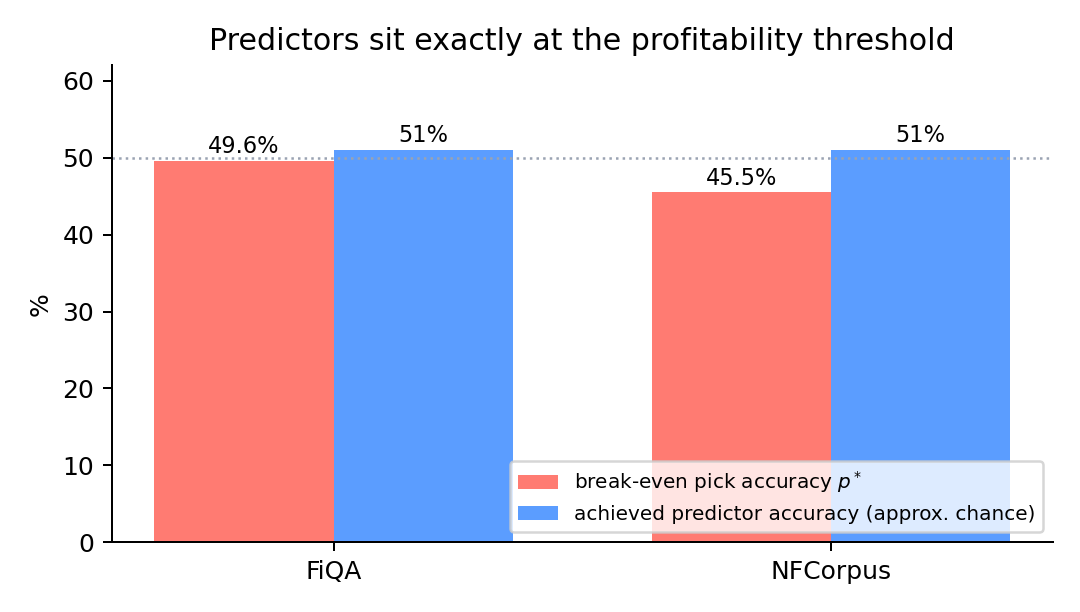
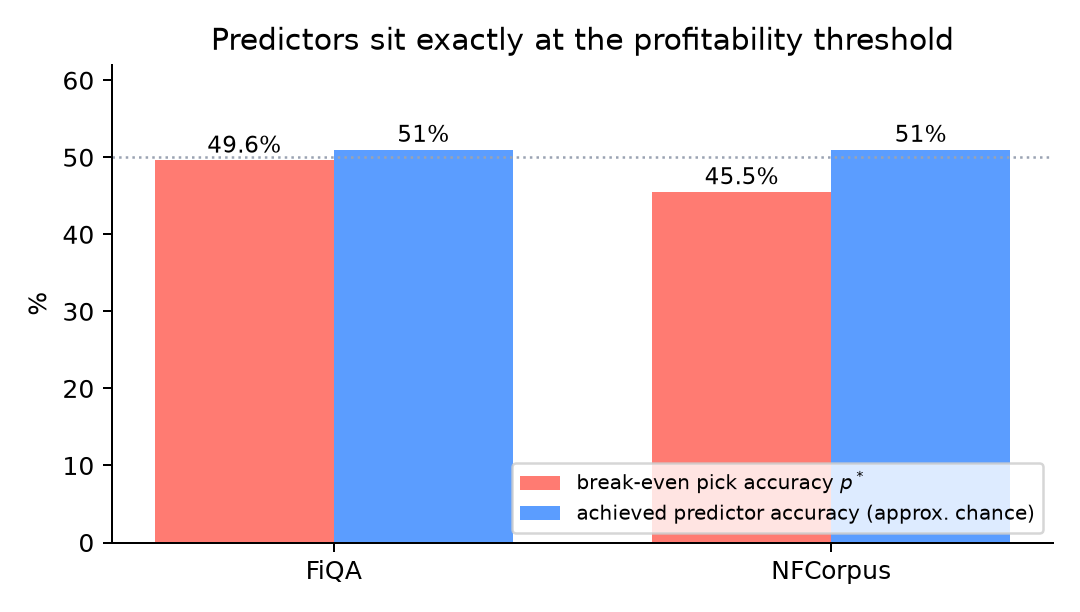
Reviewer pass: protocol labels on all tables/captions; per-query valley figure with IQR bands (both domains)

diff --git a/papers/property-routing/paper.tex b/papers/property-routing/paper.tex
@@ -17,7 +17,7 @@
 \maketitle
 
 \begin{abstract}
-Per-query retrieval routing --- choosing BM25, dense retrieval, or fusion \emph{per query} --- is motivated by oracle analyses showing large headroom: a cheat that always picks the best strategy per query outperforms the best fixed strategy by 14--17\% nDCG on BEIR datasets. We set out to harvest that headroom and failed seven times, each failure in a different way. Across gradient-boosted routers on lexical and embedding features, cross-domain transfer, two generations of pseudo-labeled training data (document sentences and LLM-generated questions), soft routing by per-query fusion-weight regression, and zero-shot LLM routing, \textbf{no router beats a single tuned fusion weight} --- and the best-intentioned variants are \emph{worse} than doing nothing. We diagnose why, mechanism by mechanism: an alphabetical tie-breaking artifact that collapses classifiers; regression that predicts strategy \emph{levels} but never per-query \emph{deviations}; pseudo-queries that are lexical copies of their source documents; a non-convex quality surface in fusion weight that traps weight-regression; and LLM routers that either hedge to the safe answer (fusion) or commit to priors that are anti-predictive on BEIR. A break-even analysis closes the loop: the oracle's wins are abundant (half of all queries) but carry no query-side fingerprint beyond chance, so \emph{any} router built on reading the query operates exactly at its profitability threshold. We validate the stakes at the answer level: retrieval strategy choice propagates to grounded-answer quality, confirmed by a blind 90-judgment human evaluation. The practical recommendation is unfashionable and robust: sweep the weight, ship the constant. The artifact is a complete, deployed RAG platform with which every claim in this paper can be reproduced from a YAML config.
+Per-query retrieval routing --- choosing BM25, dense retrieval, or fusion \emph{per query} --- is motivated by oracle analyses showing large headroom: a cheat that always picks the best strategy per query outperforms the best fixed strategy by 14--17\% relative nDCG on BEIR datasets (honest train/test protocol; 12--13\% under the all-splits convention). We set out to harvest that headroom and failed seven times, each failure in a different way. Across gradient-boosted routers on lexical and embedding features, cross-domain transfer, two generations of pseudo-labeled training data (document sentences and LLM-generated questions), soft routing by per-query fusion-weight regression, and zero-shot LLM routing, \textbf{no router beats a single tuned fusion weight} --- and the best-intentioned variants are \emph{worse} than doing nothing. We diagnose why, mechanism by mechanism: an alphabetical tie-breaking artifact that collapses classifiers; regression that predicts strategy \emph{levels} but never per-query \emph{deviations}; pseudo-queries that are lexical copies of their source documents; a non-convex quality surface in fusion weight that traps weight-regression; and LLM routers that either hedge to the safe answer (fusion) or commit to priors that are anti-predictive on BEIR. A break-even analysis closes the loop: the oracle's wins are abundant (half of all queries) but carry no query-side fingerprint beyond chance, so \emph{any} router built on reading the query operates exactly at its profitability threshold. We validate the stakes at the answer level: retrieval strategy choice propagates to grounded-answer quality, confirmed by a blind 90-judgment human evaluation. The practical recommendation is unfashionable and robust: sweep the weight, ship the constant. The artifact is a complete, deployed RAG platform with which every claim in this paper can be reproduced from a YAML config.
 \end{abstract}
 
 \section{Introduction}
@@ -33,7 +33,7 @@ Our findings in one sentence: \textbf{the oracle gap is real, abundant, and unre
 
 \subsection{Claims}
 \begin{enumerate}
-\item On FiQA and NFCorpus, the per-query oracle beats the best fixed strategy by +14--17\% relative nDCG (Section~3); domain labels capture only +1.3\% of it (Section~4.1).
+\item On FiQA and NFCorpus, the per-query oracle beats the best fixed strategy by +14--17\% relative nDCG (Section~3, test-split protocol; +12--13\% all-splits); domain labels capture only +1.3\% of it (Section~4.1).
 \item Seven router families --- spanning feature, label-generation, soft-weight, and LLM paradigms --- all fail to beat a tuned uniform weight; five are worse than it (Section~4). Two failure mechanisms are, to our knowledge, undocumented: alphabetical tie-breaking bias in argmax labels under dense annotations (\S\ref{sec:v0}), and the non-convex weight-valley that collapses fusion-weight regression (\S\ref{sec:v5}).
 \item A break-even analysis explains the flat results: the oracle wins on roughly half of queries, but the required pick accuracy ($\sim$46--50\%) equals what query-feature predictors achieve by chance (Section~5).
 \item Strategy choice matters at the answer level --- grounding scores and blind human judgments both order dense $>$ hybrid $>$ bm25 identically --- so the routing question is worth asking even though current routers fail it (Section~6).
@@ -69,13 +69,13 @@ FiQA     & 0.2293 & 0.3680 & 0.3827 @ $w{=}0.7$ & \textbf{0.3827} & 0.4271 \\
 NFCorpus & 0.3013 & 0.3183 & 0.3374 @ $w{=}0.5$ & \textbf{0.3374} & 0.3818 \\
 \bottomrule
 \end{tabular}
-\caption{Baselines (all-splits nDCG@10) and oracle. Oracle gaps: +11.6\% relative (FiQA), +13.2\% (NFCorpus).}
+\caption{Baselines and oracle under the \emph{all-splits} protocol (train+dev+test merged; comparability with published BEIR numbers). Oracle gaps: +11.6\% relative (FiQA), +13.2\% (NFCorpus). All router results in this paper (Table~\ref{tab:matrix}) use the honest \emph{test-split} protocol instead (gaps +16.9\%/+14.1\%); the phenomenon holds under both.}
 \label{tab:baselines}
 \end{table}
 
 Head-to-head, no strategy dominates: BM25 beats dense on 31.3\% of NFCorpus queries but only 14.5\% of FiQA queries. The winner \emph{varies} --- the precondition for routing to matter.
 
-Under the honest test-split protocol the pattern holds: oracle 0.4338 (FiQA) and 0.3842 (NFCorpus) vs best-uniform 0.3711 and 0.3368 --- \textbf{+16.9\% and +14.1\% relative} (weighted oracle 0.4173 vs 0.3597).
+Under the honest test-split protocol the pattern holds: oracle 0.4338 (FiQA) and 0.3842 (NFCorpus) vs best-uniform 0.3711 and 0.3368 --- \textbf{+16.9\% and +14.1\% relative} (weighted oracle 0.4173 vs 0.3597). Protocol note: Table~\ref{tab:baselines} is all-splits; Table~\ref{tab:matrix} is test-split; the gap holds under both (\S2.2).
 
 One observation frames everything that follows: the \textbf{soft oracle exceeds the hard oracle}. Allowing per-query fusion weights $w \in \{0, 0.1, \dots, 1.0\}$ (RRF-fused BM25+dense rankings, weight grid-searched per query) reaches 0.4413/0.3884 --- \emph{above} per-query strategy selection (0.4338/0.3842). Fusion hedges: blending two thin, complementary rankings rescues queries no single strategy serves. The ceiling is higher than the routing literature's usual number --- and we will see it is no more reachable.
 
@@ -125,8 +125,8 @@ RCT-MARS (\S\ref{sec:related}) resolves the hard-routing paradox by going soft: 
 
 \begin{figure}[h]
 \centering
-\includegraphics[width=0.8\textwidth]{fig_valley.png}
-\caption{FiQA test nDCG@10 as a function of fusion weight (uniform sweep; router-v5 report). The curve is non-convex: quality collapses between $w{=}0.3$ and $w{=}0.4$, then jumps at $w{=}0.5$. v5-direct's predicted mean weight (0.323) lands in the shaded valley --- the mechanism of its $-25\%$ recovery.}
+\includegraphics[width=\textwidth]{fig_valley.png}
+\caption{Per-query fusion-weight sweep recomputed from committed run artifacts (test split; solid = mean nDCG@10, band = interquartile range across queries). FiQA's mean surface is non-convex --- collapse through $w{=}0.3$--$0.4$, jump at $w{=}0.5$ --- and v5-direct's predicted mean weight (0.323, dashed) lands in the shaded valley: the mechanism of its $-25\%$ recovery. NFCorpus's surface is flatter, consistent with its smaller routing losses.}
 \label{fig:valley}
 \end{figure}
 \subsection{v6 --- LLM-as-router (zero-shot)}
@@ -160,7 +160,7 @@ v6h & LLM (hedge allowed) & 0.3599 & $+0.1\%$ & $+0.0\%$ & hedge degeneracy \\
 v6f & LLM (forced choice) & 0.3386 & $-5.9\%$ & $-21\%$ & priors anti-predictive \\
 \bottomrule
 \end{tabular}
-\caption{All attempts, honest protocol, weighted test nDCG@10 (baseline uniform 0.3597, oracle 0.4173). Scores as reported per experiment; small baseline differences reflect per-run test subsets.}
+\caption{All attempts, honest train/test protocol (test split only), weighted nDCG@10 (baseline uniform 0.3597, oracle 0.4173; all-splits baselines in Table~\ref{tab:baselines}). Scores as reported per experiment; sub-0.001 baseline differences across experiments reflect per-run query subsets.}
 \label{tab:matrix}
 \end{table}
 

diff --git a/scripts/make_figures.py b/scripts/make_figures.py
@@ -3,13 +3,14 @@
 
 Outputs (papers/property-routing/figures/):
   fig_ladder.png    the routing ladder: fixed strategies, routers, oracle
-  fig_valley.png    the non-convex fusion-weight surface (v5 mechanism)
+  fig_valley.png    per-query fusion-weight sweep with IQR bands (both domains),
+                    recomputed from committed run artifacts
   fig_breakeven.png break-even pick accuracy vs achieved predictor accuracy
 
-All numbers are from the committed reports in experiments/results/ (cited per
-figure). Run: pip install matplotlib && python scripts/make_figures.py
+Run: pip install matplotlib && python scripts/make_figures.py
 """
 
+import json
 from pathlib import Path
 
 import matplotlib.pyplot as plt
@@ -19,6 +20,7 @@ FIG = ROOT / "papers" / "property-routing" / "figures"
 FIG.mkdir(parents=True, exist_ok=True)
 
 GRAY, BLUE, GREEN, RED = "#9aa3b2", "#5b9dff", "#4ade80", "#ff7b72"
+ORANGE = "#f5a623"
 plt.rcParams.update({"font.size": 10, "axes.spines.top": False, "axes.spines.right": False})
 
 # ---------------------------------------------------------------- fig_ladder
@@ -58,30 +60,70 @@ fig.savefig(FIG / "fig_ladder.png", dpi=180)
 plt.close(fig)
 
 # ---------------------------------------------------------------- fig_valley
-# FiQA uniform weight sweep (router-v5 report) + v5-direct predicted mean weight.
-w = [i / 10 for i in range(11)]
-ndcg = [0.2312, 0.2619, 0.2642, 0.2673, 0.2714, 0.3574,
-        0.3686, 0.3695, 0.3689, 0.3694, 0.3687]
+# Per-query nDCG across the full fusion-weight sweep, recomputed from committed
+# run artifacts (bm25 + dense ranked lists, RRF fusion). Solid = mean,
+# band = interquartile range across test queries. Validated to reproduce the
+# FiQA means reported in router-v5-soft report.
+import sys
+sys.path.insert(0, str(ROOT))
+sys.path.insert(0, str(ROOT / "scripts"))
 
-fig, ax = plt.subplots(figsize=(6.4, 3.8))
-ax.plot(w, ndcg, marker="o", color=BLUE, lw=2)
-ax.axvspan(0.28, 0.42, color=RED, alpha=0.12)
-ax.text(0.35, 0.30, "the valley:\nmean predictions\nland here", ha="center", color=RED, fontsize=9)
-ax.axvline(0.323, color=RED, ls="--", lw=1.2)
-ax.text(0.323, 0.375, " v5-direct predicted\n mean weight 0.323", color=RED, fontsize=8, va="bottom")
-ax.annotate("w=0.4: 0.2714", xy=(0.4, 0.2714), xytext=(0.52, 0.25),
-            arrowprops=dict(arrowstyle="->", color="#555"), fontsize=8)
-ax.annotate("w=0.5: 0.3574", xy=(0.5, 0.3574), xytext=(0.62, 0.33),
-            arrowprops=dict(arrowstyle="->", color="#555"), fontsize=8)
-ax.set_xlabel("fusion weight w (dense share)")
-ax.set_ylabel("FiQA test nDCG@10")
-ax.set_title("The non-convex weight valley (v5-direct collapse mechanism)")
+import router_v0 as rv  # noqa: E402
+import router_v5_soft as v5  # noqa: E402
+from core.evaluation.retrieval import per_query_ndcg_at_k  # noqa: E402
+from core.datasets.beir import load_beir  # noqa: E402
+from core.experiments.registry import load_results  # noqa: E402
+
+GRID = [i / 10 for i in range(11)]
+RESULTS_DIR = str(ROOT / "experiments" / "results")
+PRED_W = {"fiqa": 0.323, "nfcorpus": 0.272}  # v5-direct predicted mean weights
+
+fig, axes = plt.subplots(1, 2, figsize=(9.6, 3.9), sharex=True)
+for ax, (name, pretty, color) in zip(axes, [
+        ("fiqa", "FiQA", BLUE), ("nfcorpus", "NFCorpus", ORANGE)]):
+    try:
+        runs = v5.load_runs(name, RESULTS_DIR)
+        ds_dir = next(r for r in load_results(RESULTS_DIR)
+                      if r.get("dataset") == name)["config"]["dataset"]["path"]
+        ds = load_beir(ds_dir, name=name, version="1.0")
+        test_q = [q for q in rv.load_split_qrels(ds_dir, "test")
+                  if q in runs["bm25"] and q in runs["dense"] and q in ds.qrels]
+        per_w = {w: [] for w in GRID}
+        for q in test_q:
+            for w in GRID:
+                ranked = v5.fuse(runs["bm25"][q], runs["dense"][q], w)
+                s = per_query_ndcg_at_k({q: ranked}, {q: ds.qrels[q]}, 10).get(q, 0.0)
+                per_w[w].append(s)
+        means = [sum(per_w[w]) / len(per_w[w]) for w in GRID]
+        p25 = [sorted(per_w[w])[len(per_w[w]) // 4] for w in GRID]
+        p75 = [sorted(per_w[w])[(3 * len(per_w[w])) // 4] for w in GRID]
+        ax.fill_between(GRID, p25, p75, color=color, alpha=0.15, label="IQR across queries")
+        ax.plot(GRID, means, marker="o", color=color, lw=2, label="mean nDCG@10")
+        ax.axvline(PRED_W[name], color=RED, ls="--", lw=1.1)
+        ax.text(PRED_W[name] + 0.02, min(means) + 0.02,
+                f"predicted mean w\n{PRED_W[name]:.2f}", color=RED, fontsize=8)
+        if name == "fiqa":
+            ax.axvspan(0.28, 0.42, color=RED, alpha=0.10)
+            ax.text(0.35, max(means) - 0.05, "the valley", color=RED, fontsize=9, ha="center")
+            ax.annotate("w=0.4: 0.2714", xy=(0.4, 0.2714), xytext=(0.55, 0.24),
+                        arrowprops=dict(arrowstyle="->", color="#555"), fontsize=8)
+            ax.annotate("w=0.5: 0.3574", xy=(0.5, 0.3574), xytext=(0.62, 0.33),
+                        arrowprops=dict(arrowstyle="->", color="#555"), fontsize=8)
+        ax.set_title(pretty)
+        ax.set_xlabel("fusion weight w (dense share)")
+        print(f"{name}: sweep means {[round(m, 4) for m in means]}")
+    except Exception as e:  # missing local artifacts/qrels: skip domain
+        ax.set_title(f"{pretty} (skipped: {e})")
+        ax.text(0.5, 0.5, "run on machine with\ncommitted artifacts", ha="center", va="center",
+                transform=ax.transAxes, fontsize=8, color=GRAY)
+axes[0].set_ylabel("test nDCG@10")
+axes[0].legend(fontsize=8, loc="lower right")
+fig.suptitle("Per-query fusion-weight surfaces: the non-convex valley (v5 mechanism)")
 fig.tight_layout()
 fig.savefig(FIG / "fig_valley.png", dpi=180)
 plt.close(fig)
 
 # ------------------------------------------------------------ fig_breakeven
-# routing-wins report: p* per domain; achieved predictor label accuracy ~51%.
 domains = ["FiQA", "NFCorpus"]
 p_star = [49.6, 45.5]
 achieved = [51, 51]
